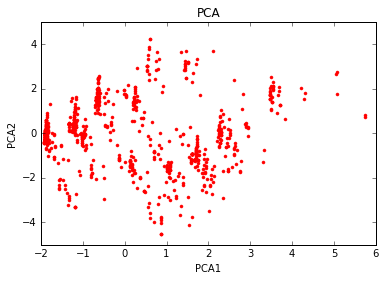
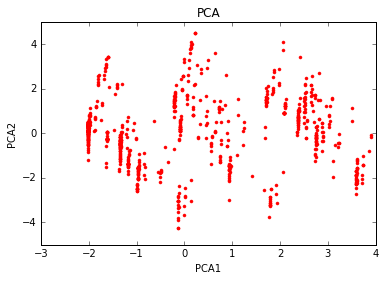
visualisation part done

diff --git a/pca.py b/pca.py
@@ -4,17 +4,18 @@ import matplotlib.pyplot as plt
 import scipy.linalg as linalg
 import math
 from pylab import *
+from similarity import similarity
 
 with open('titanic_processed.csv') as f:
    data_frame = pandas.read_csv(f)
    
-   # Replace empty values in the age column with the mean of that column
+  # # Replace empty values in the age column with the mean of that column
   # for i in range(len(data_frame)):
   #     if math.isnan(data_frame.iloc[i,7]):
   #         data_frame.iloc[i,7] = data_frame.iloc[:,7].mean()
 
-   # Center the values by subtracting the mean and dividing by the standard
-   # deviation
+  # # Center the values by subtracting the mean and dividing by the standard
+  # # deviation
    centered = (data_frame
         .fillna(data_frame.mean()) # replace empty values with mean
         .assign(survived_cent = lambda x: ((x.Survived - x.Survived.mean()) /
@@ -49,27 +50,52 @@ with open('titanic_processed.csv') as f:
         )
 centeredMatrix = np.mat(centered)
 
-
-# PCA by computing SVD of Y
+# # PCA by computing SVD of Y
 U,S,V = linalg.svd(centeredMatrix,full_matrices=False)
 V = np.mat(V).T
 
-# Project the centered data onto principal component space
+# # Project the centered data onto principal component space
 K = centeredMatrix * V
 #print np.size(K,0)
 #print np.size(K,1)
 
-# Compute variance explained by principal components
+# # Compute variance explained by principal components
 var = (S*S) / (S*S).sum() 
 print sum(var[:2]),"The amount of variation explained as a function of two PCA"
-# 
+
+# # This matrix is used to check the correlation
+KTranspose = np.mat(K).T
+
+# # Checking for correlation
+correlationMat= np.mat(similarity(KTranspose,KTranspose,'cor'))
+#print np.size(correlationMat,0)
+#print np.size(correlationMat,1)
+for i in range(len(correlationMat)):
+    for j in range(len(correlationMat)):
+        if  i != j :
+            if  round (correlationMat[i,j]) == -1 or round (correlationMat[i,j]) == 1 :
+                print 'correlation between',i,'and',j
+
+# # Plot the first Direction
+f = plt.figure(1)
+plt.title('Direction of First Component ')
+plt.plot([np.arange(13)],V[0,:], 'o', color = 'black')
+plt.xlabel('Attributes')
+plt.ylabel('Direction')
+f.show()
+
+# # Plot the second Direction
+g = plt.figure(2)
+plt.title('Direction of Second Component ')
+plt.plot([np.arange(13)],V[1,:], 'o', color = 'green')
+plt.xlabel('Attributes')
+plt.ylabel('Direction')
+g.show()
+
 # # Plot PCA of the data
-# 
-# plt.title('PCA')
-# plt.plot(K[:,0], K[:,1], '.', color='red')    #first component
-# #plt.plot(K[1,:], K[0,:], '*', color='yellow')   #second component
-# plt.xlabel('PCA1')
-# plt.ylabel('PCA2')
-# 
-# # Output result to screen
-# plt.show()
+pca = plt.figure(3) 
+plt.title('PCA')
+plt.plot(K[:,0], K[:,1], '.', color='red')       #first component
+plt.xlabel('PCA1')
+plt.ylabel('PCA2')
+pca.show()
